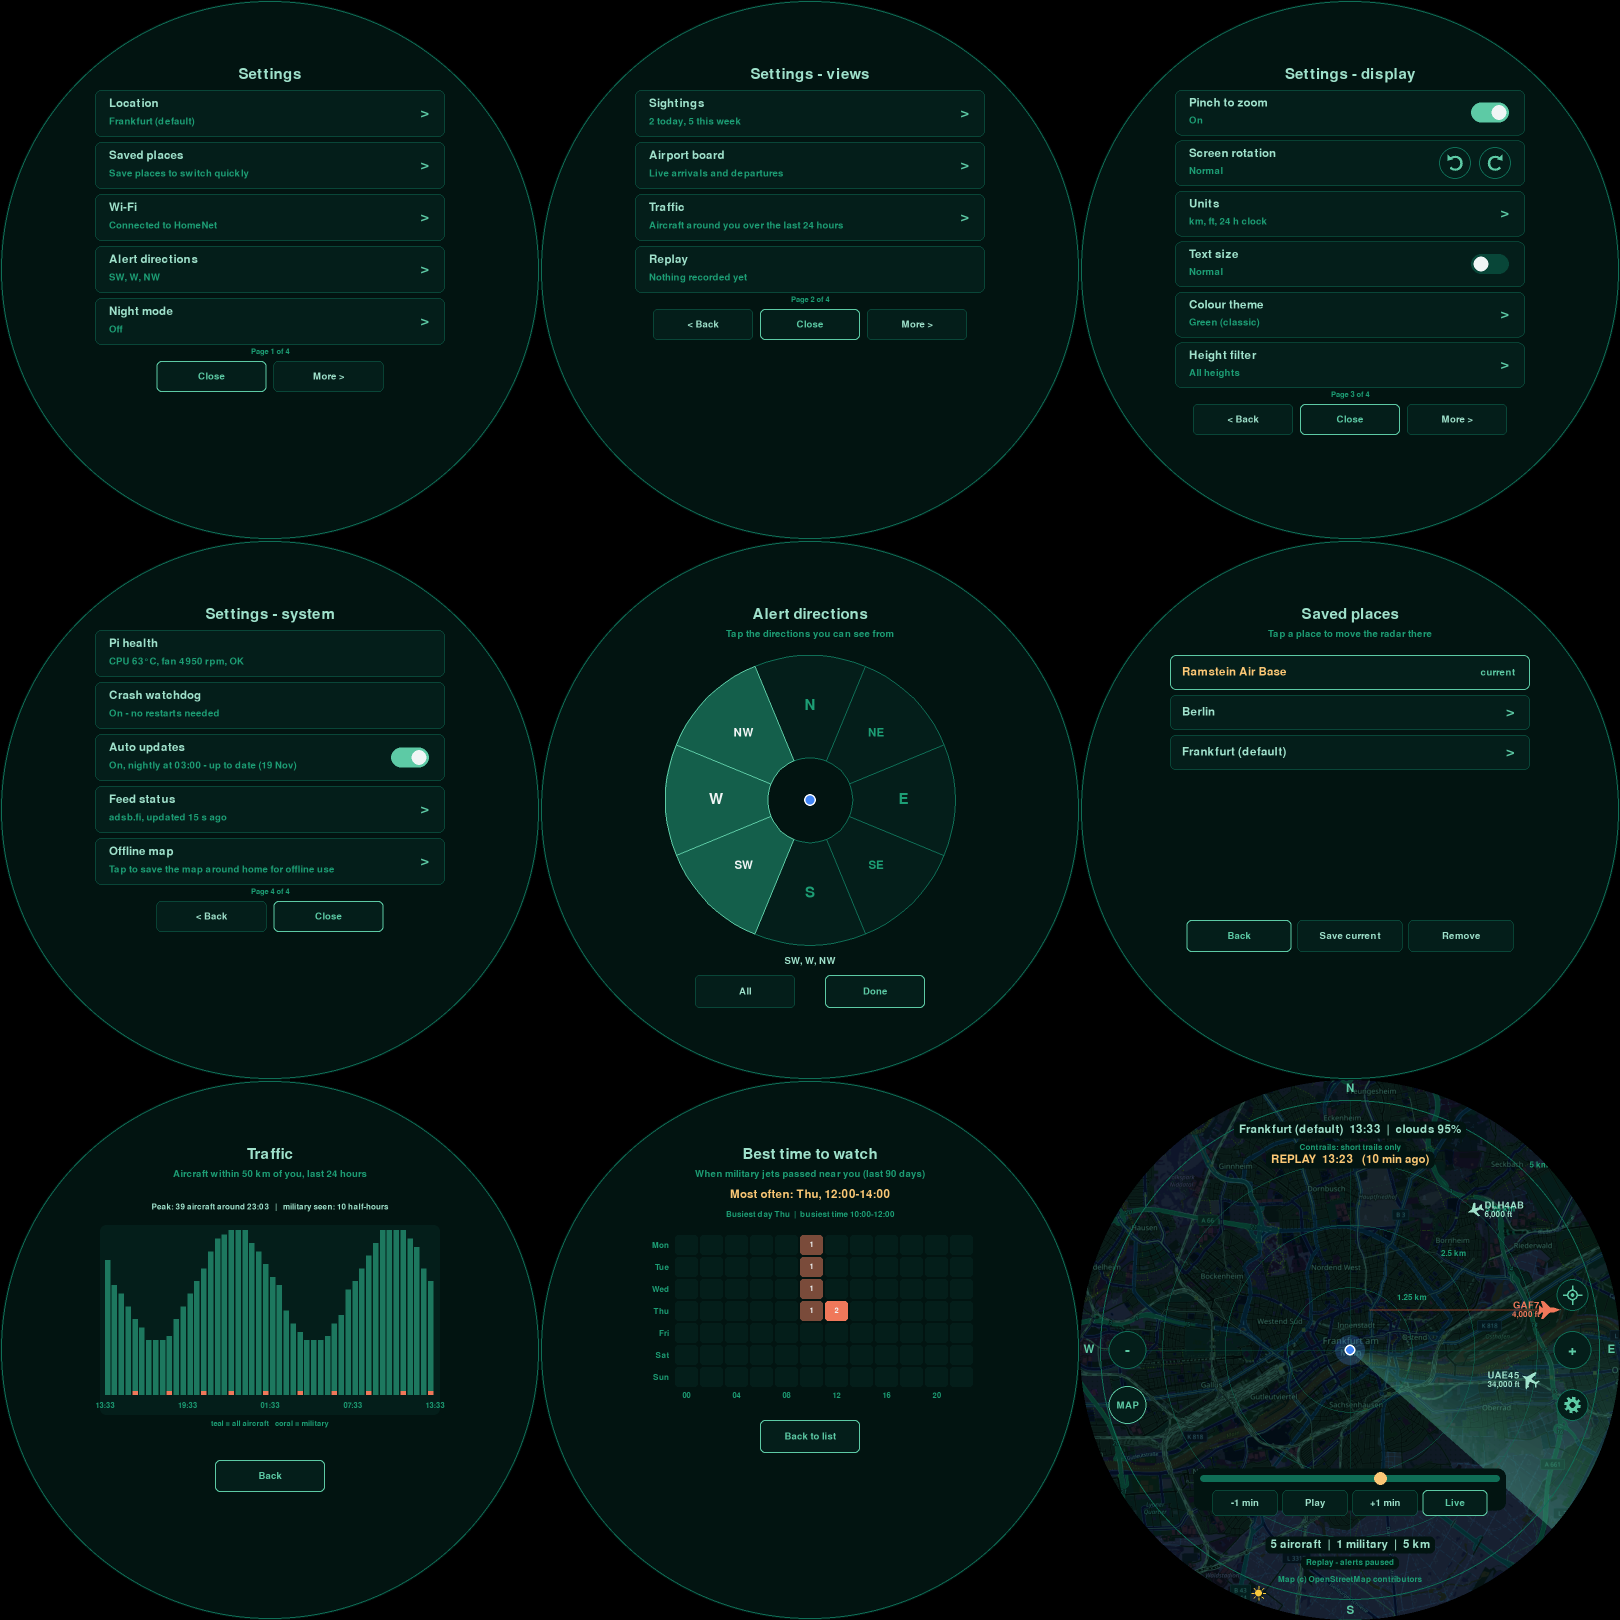
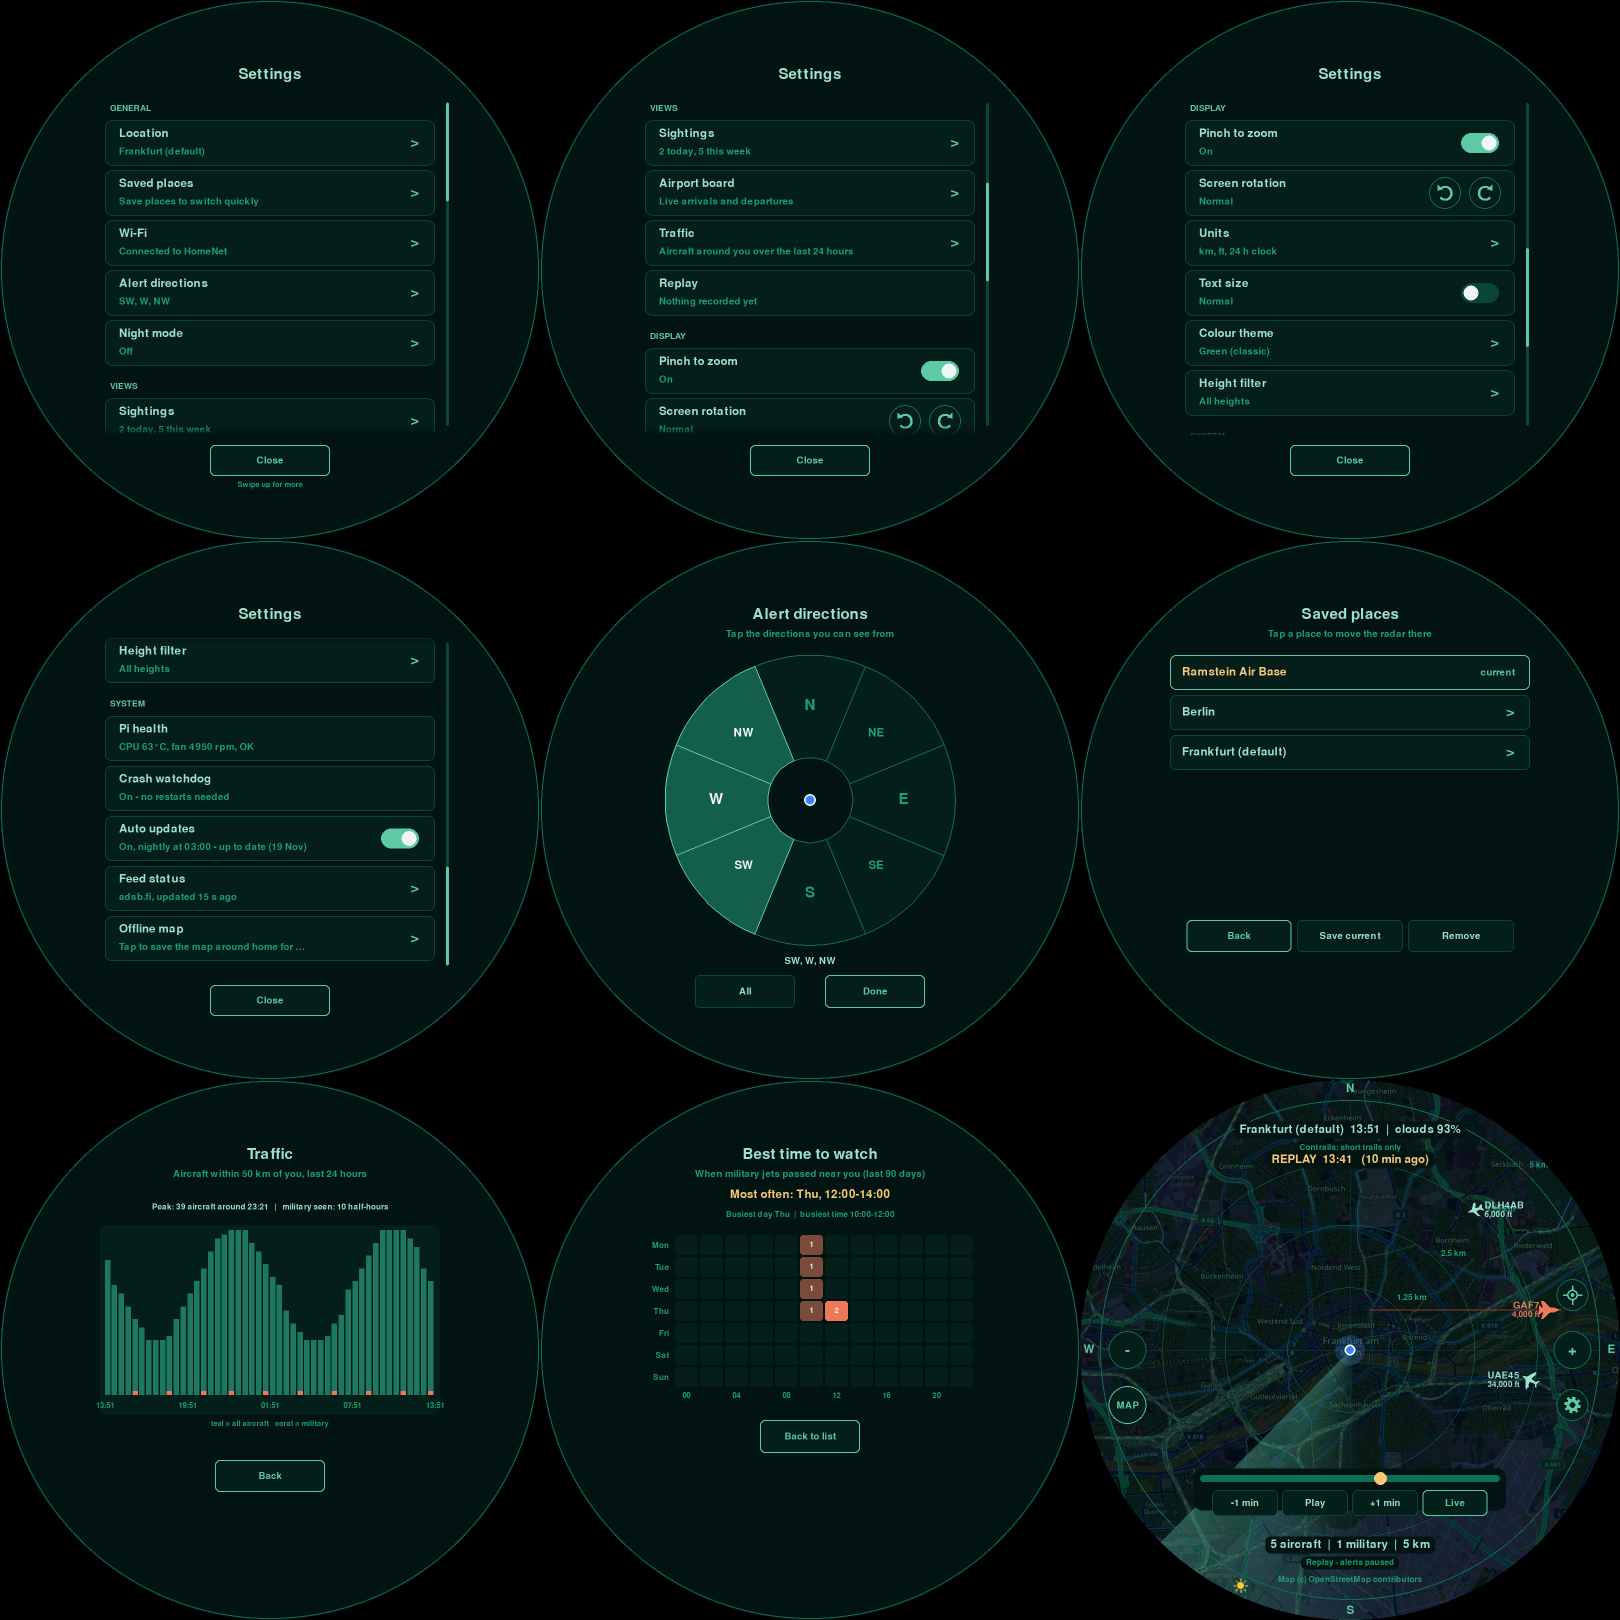
Make the settings menu one scrolling list instead of pages
- Swipe (with flick) or mouse wheel to scroll; rows tap on release
- Section headers: General, Views, Display, System; fixed Close button
- Scroll bar, soft fade at the edges, long values shortened at a word
- README and settings screenshot updated

diff --git a/sky_radar.py b/sky_radar.py
@@ -1426,7 +1426,11 @@ class Settings:
         self.theme = prefs.get("theme", "green") if prefs.get("theme") in THEMES else "green"
         self.text_large = load_prefs().get("text_size") == "large"
         self.night_mode = load_prefs().get("night_mode", "off")      # "off", "dim" or "blank"
-        self.menu_page = 0
+        self.menu_scroll = 0.0        # how far the settings list is scrolled (px)
+        self.menu_vel = 0.0           # flick speed (px/s), slows down by itself
+        self.menu_max = 0.0
+        self._menu_press = None       # [x, y, scroll at press, last y, last time, moved]
+        self._menu_last = time.time()
         u = load_prefs().get("units")
         if isinstance(u, list) and tuple(u) in UNIT_PRESETS:
             set_units(*u)
@@ -1449,7 +1453,7 @@ class Settings:
 
     # -- navigation ---------------------------------------------------------------
     def open_menu(self):
-        self.menu_page = 0
+        self.menu_scroll, self.menu_vel = 0.0, 0.0
         self.rotation = get_rotation()
         self.from_menu = True
         self.flow = []
@@ -1558,8 +1562,41 @@ class Settings:
         near = self.ui.airports.nearest(lat, lon, 1)
         return f"{near[0][0]} {near[0][1]}" if near else "Live arrivals and departures"
 
-    def _page(self, n):
-        self.menu_page = n
+    # -- scrolling the settings list (drag, flick or mouse wheel) -------------------
+    MENU_TOP, MENU_BOTTOM = 185, 872           # the list scrolls between these lines
+    DRAG_START = 18                            # px a finger must move before it counts as a scroll
+
+    def menu_press(self, x, y):
+        self.menu_vel = 0.0
+        self._menu_press = [x, y, self.menu_scroll, y, time.time(), False]
+
+    def menu_drag(self, x, y):
+        p = self._menu_press
+        if not p:
+            return
+        if not p[5] and abs(y - p[1]) > self.DRAG_START:
+            p[5] = True
+        if p[5]:
+            now = time.time()
+            dt = max(1e-3, now - p[4])
+            self.menu_vel = 0.6 * self.menu_vel + 0.4 * (p[3] - y) / dt
+            p[3], p[4] = y, now
+            self.menu_scroll = min(self.menu_max, max(0.0, p[2] + (p[1] - y)))
+
+    def menu_release(self, x, y):
+        p, self._menu_press = self._menu_press, None
+        if not p:
+            return
+        if p[5]:
+            if time.time() - p[4] > 0.12:       # finger stopped before lifting: no flick
+                self.menu_vel = 0.0
+        else:
+            self.menu_vel = 0.0
+            self.tap(x, y)
+
+    def menu_wheel(self, dy):
+        self.menu_vel = 0.0
+        self.menu_scroll = min(self.menu_max, max(0.0, self.menu_scroll - dy * 90))
 
     def _cycle_night(self):
         order = ["off", "dim", "blank"]
@@ -1650,85 +1687,114 @@ class Settings:
         else:
             wifi_value = "Managed by this computer"
         touch = multitouch_state()
-        if touch is None:
-            touch_value = "Not needed on this computer"
+        now = time.time()
+        dt, self._menu_last = min(0.1, now - self._menu_last), now
+        if not self._menu_press and abs(self.menu_vel) > 5:          # flick keeps gliding, then stops
+            self.menu_scroll += self.menu_vel * dt
+            self.menu_vel *= 0.05 ** dt
+            if not 0 <= self.menu_scroll <= self.menu_max:
+                self.menu_vel = 0.0
         else:
-            touch_value = "On" if touch else "Off - touch works like a mouse"
+            self.menu_vel = self.menu_vel if self._menu_press else 0.0
         health, updater = self.ui.health, self.ui.updater
-        page = self.menu_page
-        if page == 0:
-            n_places = len(PlacesScreen.places())
-            rows = [("Location", self.location.name, lambda: self.show("location")),
-                    ("Saved places", f"{n_places} saved" if n_places else "Save places to switch quickly", lambda: self.show("places")),
-                    ("Wi-Fi", wifi_value, lambda: self.show("wifi")),
-                    ("Alert directions", describe_directions(self.alert_dirs), lambda: self.show("directions")),
-                    ("Night mode", self.night_label(), self._cycle_night)]
-        elif page == 1:
-            hist = self.ui.feed.history if self.ui.feed else []
-            rows = [("Sightings", f"{self.ui.sightings.today()} today, {self.ui.sightings.count_since(7 * 86400)} this week",
-                     lambda: self.show("sightings")),
-                    ("Airport board", self._airport_label(), lambda: self.show("airport")),
-                    ("Traffic", "Aircraft around you over the last 24 hours", lambda: self.show("traffic")),
-                    ("Replay", f"Rewind up to {max(1, round((time.time() - hist[0][0]) / 60)) if hist else 0} min"
-                     if hist else "Nothing recorded yet", self._start_replay if hist else None)]
-        elif page == 2:
-            rows = [("Pinch to zoom", touch_value, self._toggle_pinch),
-                    ("Screen rotation", f"{self.rotation}\u00b0 clockwise" if self.rotation else "Normal", None),
-                    ("Units", units_label(), self._cycle_units),
-                    ("Text size", "Large" if self.text_large else "Normal", self._toggle_text),
-                    ("Colour theme", THEME_NAMES[self.theme], self._cycle_theme),
-                    ("Height filter", self.height_label(), self._cycle_height)]
-        else:
-            rows = [("Pi health", health.label(), None),
-                    ("Crash watchdog", watchdog_label(), None),
-                    ("Auto updates", updater.label(), updater.toggle if updater.available else None),
-                    ("Feed status", self._feed_label(), lambda: self.show("feed")),
-                    ("Offline map", self.ui.map.offline_label() if self.ui.map else "Map is off",
-                     self.ui.map.save_offline if self.ui.map else None)]
-        titles = ["Settings", "Settings - views", "Settings - display", "Settings - system"]
-        draw_screen_bg(ui, titles[page])
-        y = 180
-        step = min(104, (790 - y) // len(rows))      # more rows -> slightly slimmer rows
-        for title, value, action in rows:
-            rect = pygame.Rect(0, 0, 700, step - 10)
-            rect.midtop = (C, y)
-            pygame.draw.rect(ui.canvas, SCOPE_BG, rect, border_radius=14)
-            pygame.draw.rect(ui.canvas, RING, rect, 1, border_radius=14)
-            ui.blit_text(title, 34, TEXT, (rect.x + 28, rect.y + (step - 10) * 0.16), "topleft")
-            warn = title == "Pi health" and health.hot()
-            ui.blit_text(value[:48], 28, WARN if warn else TEXT_DIM, (rect.x + 28, rect.y + (step - 10) * 0.57), "topleft")
-            y += step
-            if title == "Screen rotation":
-                ccw = self._draw_rotate_button(ui, rect.right - 140, rect.centery, clockwise=False)
-                cw = self._draw_rotate_button(ui, rect.right - 60, rect.centery, clockwise=True)
-                self.rects.append((ccw, lambda: self._rotate(-90)))
-                self.rects.append((cw, lambda: self._rotate(90)))
-                continue
-            if title in ("Pinch to zoom", "Text size"):
-                on = touch if title == "Pinch to zoom" else self.text_large
-                if on is not None:
-                    self._draw_switch(ui, rect.right - 70, rect.centery, on)
-            elif title == "Auto updates":
-                if updater.available:
-                    self._draw_switch(ui, rect.right - 70, rect.centery, updater.enabled)
-            elif action is not None:
-                ui.blit_text(">", 44, SWEEP, (rect.right - 40, rect.centery))
-            if action is not None:
-                self.rects.append((rect, action))
-        buttons = []
-        if page > 0:
-            buttons.append(("< Back", lambda: self._page(page - 1), False))
-        buttons.append(("Close", self.close, True))
-        if page < 3:
-            buttons.append(("More >", lambda: self._page(page + 1), False))
-        ui.blit_text(f"Page {page + 1} of 4", 22, TEXT_DIM, (C, y + 4))
-        width = 200 if len(buttons) == 3 else 220
-        x = C - (len(buttons) * width + (len(buttons) - 1) * 14) // 2
-        for label, action, primary in buttons:
-            rect = pygame.Rect(x, y + 22, width, 62)
-            draw_button(ui, rect, label, primary=primary)
-            self.rects.append((rect, action))
-            x += width + 14
+        top, bottom = self.MENU_TOP, self.MENU_BOTTOM
+        row_h, head_h = 100, 56
+        sections = self._menu_sections(touch, wifi_value)
+        content = sum(head_h + row_h * len(rows) for _, rows in sections) + 20     # room below the last row
+        self.menu_max = max(0.0, content - (bottom - top))
+        self.menu_scroll = min(self.menu_max, max(0.0, self.menu_scroll))
+        view = pygame.Rect(0, top, CANVAS, bottom - top)
+        ui.canvas.set_clip(view)
+        y = top - int(self.menu_scroll)
+        for name, rows in sections:
+            if top - head_h < y < bottom:
+                ui.blit_text(name.upper(), 26, SWEEP, (C - 320, y + head_h - 14), "bottomleft")
+            y += head_h
+            for title, value, action in rows:
+                rect = pygame.Rect(0, 0, 660, row_h - 10)
+                rect.midtop = (C, y)
+                y += row_h
+                if rect.bottom < top or rect.top > bottom:
+                    continue                                            # off screen: skip drawing
+                pygame.draw.rect(ui.canvas, SCOPE_BG, rect, border_radius=14)
+                pygame.draw.rect(ui.canvas, RING, rect, 1, border_radius=14)
+                ui.blit_text(title, 34, TEXT, (rect.x + 28, rect.y + 14), "topleft")
+                warn = title == "Pi health" and health.hot()
+                ui.blit_text(value if len(value) <= 44 else value[:42].rsplit(' ', 1)[0] + ' …', 28, WARN if warn else TEXT_DIM, (rect.x + 28, rect.y + 52), "topleft")
+                hit = rect.clip(view)
+                if title == "Screen rotation":
+                    ccw = self._draw_rotate_button(ui, rect.right - 140, rect.centery, clockwise=False)
+                    cw = self._draw_rotate_button(ui, rect.right - 60, rect.centery, clockwise=True)
+                    self.rects.append((ccw.clip(view), lambda: self._rotate(-90)))
+                    self.rects.append((cw.clip(view), lambda: self._rotate(90)))
+                    continue
+                if title in ("Pinch to zoom", "Text size"):
+                    on = touch if title == "Pinch to zoom" else self.text_large
+                    if on is not None:
+                        self._draw_switch(ui, rect.right - 70, rect.centery, on)
+                elif title == "Auto updates":
+                    if updater.available:
+                        self._draw_switch(ui, rect.right - 70, rect.centery, updater.enabled)
+                elif action is not None:
+                    ui.blit_text(">", 44, SWEEP, (rect.right - 40, rect.centery))
+                if action is not None and hit.height > 0:
+                    self.rects.append((hit, action))
+        ui.canvas.set_clip(None)
+        # soft fade at both edges so rows slide under them instead of being cut off
+        fade = pygame.Surface((CANVAS, 1), pygame.SRCALPHA)
+        for edge, sign in ((top, 1), (bottom, -1)):
+            for i in range(26):
+                yy = edge + sign * i
+                half = int(math.sqrt(max(0, (C - 4) ** 2 - (yy - C) ** 2)))
+                fade.fill(PANEL_BG + (int(255 * (1 - i / 26) ** 1.6),))
+                ui.canvas.blit(fade, (C - half, yy), pygame.Rect(0, 0, 2 * half, 1))
+        if self.menu_max > 0:                                           # scroll bar on the right
+            track_h = bottom - top - 40
+            bar_h = max(60, track_h * (bottom - top) / content)
+            by = top + 20 + (track_h - bar_h) * self.menu_scroll / self.menu_max
+            pygame.draw.rect(ui.canvas, GRID, (C + 352, top + 20, 6, track_h), border_radius=3)
+            pygame.draw.rect(ui.canvas, SWEEP, (C + 352, by, 6, bar_h), border_radius=3)
+        rect = pygame.Rect(0, 0, 240, 62)
+        rect.midtop = (C, bottom + 18)
+        draw_button(ui, rect, "Close", primary=True)
+        self.rects.append((rect, self.close))
+        if self.menu_scroll < 4 and self.menu_max > 0:
+            ui.blit_text("Swipe up for more", 22, TEXT_DIM, (C, bottom + 98))
+
+    def _menu_sections(self, touch, wifi_value):
+        health, updater = self.ui.health, self.ui.updater
+        n_places = len(PlacesScreen.places())
+        hist = self.ui.feed.history if self.ui.feed else []
+        return [
+            ("General", [
+                ("Location", self.location.name, lambda: self.show("location")),
+                ("Saved places", f"{n_places} saved" if n_places else "Save places to switch quickly", lambda: self.show("places")),
+                ("Wi-Fi", wifi_value, lambda: self.show("wifi")),
+                ("Alert directions", describe_directions(self.alert_dirs), lambda: self.show("directions")),
+                ("Night mode", self.night_label(), self._cycle_night)]),
+            ("Views", [
+                ("Sightings", f"{self.ui.sightings.today()} today, {self.ui.sightings.count_since(7 * 86400)} this week",
+                 lambda: self.show("sightings")),
+                ("Airport board", self._airport_label(), lambda: self.show("airport")),
+                ("Traffic", "Aircraft around you over the last 24 hours", lambda: self.show("traffic")),
+                ("Replay", f"Rewind up to {max(1, round((time.time() - hist[0][0]) / 60))} min" if hist
+                 else "Nothing recorded yet", self._start_replay if hist else None)]),
+            ("Display", [
+                ("Pinch to zoom", "Not needed on this computer" if touch is None else
+                 ("On" if touch else "Off - touch works like a mouse"), self._toggle_pinch),
+                ("Screen rotation", f"{self.rotation}° clockwise" if self.rotation else "Normal", None),
+                ("Units", units_label(), self._cycle_units),
+                ("Text size", "Large" if self.text_large else "Normal", self._toggle_text),
+                ("Colour theme", THEME_NAMES[self.theme], self._cycle_theme),
+                ("Height filter", self.height_label(), self._cycle_height)]),
+            ("System", [
+                ("Pi health", health.label(), None),
+                ("Crash watchdog", watchdog_label(), None),
+                ("Auto updates", updater.label(), updater.toggle if updater.available else None),
+                ("Feed status", self._feed_label(), lambda: self.show("feed")),
+                ("Offline map", self.ui.map.offline_label() if self.ui.map else "Map is off",
+                 self.ui.map.save_offline if self.ui.map else None)])]
+
 
 
 # --------------------------------------------------------------------------- data feed
@@ -3657,6 +3723,15 @@ def main():
                     radar.settings.type_text(ev.text)
                 elif ev.type == pygame.KEYDOWN:
                     radar.settings.key(ev.key)
+                elif radar.settings.screen == "menu":      # the menu list scrolls: tap on release
+                    if ev.type == pygame.MOUSEBUTTONDOWN and ev.button == 1:
+                        radar.settings.menu_press(*to_canvas(*ev.pos))
+                    elif ev.type == pygame.MOUSEMOTION and ev.buttons[0]:
+                        radar.settings.menu_drag(*to_canvas(*ev.pos))
+                    elif ev.type == pygame.MOUSEBUTTONUP and ev.button == 1:
+                        radar.settings.menu_release(*to_canvas(*ev.pos))
+                    elif ev.type == pygame.MOUSEWHEEL:
+                        radar.settings.menu_wheel(ev.y)
                 elif ev.type == pygame.MOUSEBUTTONDOWN and ev.button == 1:
                     radar.tap(*to_canvas(*ev.pos))
                 continue

diff --git a/README.md b/README.md
@@ -80,7 +80,8 @@ Built for the Waveshare 5" round 1080x1080 HDMI touch display, but it runs on an
   rate-limited or resting
 - **Night mode:** dims the screen or switches it off at night (22:00–07:00 by default, `night_start` / `night_end`).
   A touch wakes it for a minute, and **military alerts always wake it**
-- Settings on the screen itself (gear button), on four pages (**< Back** / **More >** to move between them):
+- Settings on the screen itself (gear button), in one list you scroll by swiping up and down (or with the
+  mouse wheel on a PC), grouped into four sections:
   - **General**
     - **Location:** type an address and pick from suggestions as you type
     - **Saved places:** save the current location, switch to a saved one, or remove it
@@ -116,7 +117,7 @@ overcast. The small sun on the edge shows where the sun is.*
 
 ![Settings, alert directions, sightings, location search and Wi-Fi](docs/settings.png)
 
-*Settings (all four pages), alert directions (west side selected), replay, the 24-hour traffic chart (example data)
+*The settings list (scrolled to each section), alert directions (west side selected), replay, the 24-hour traffic chart (example data)
 and saved places.*
 
 ![Colour themes: green, amber, blue, red](docs/themes.png)
